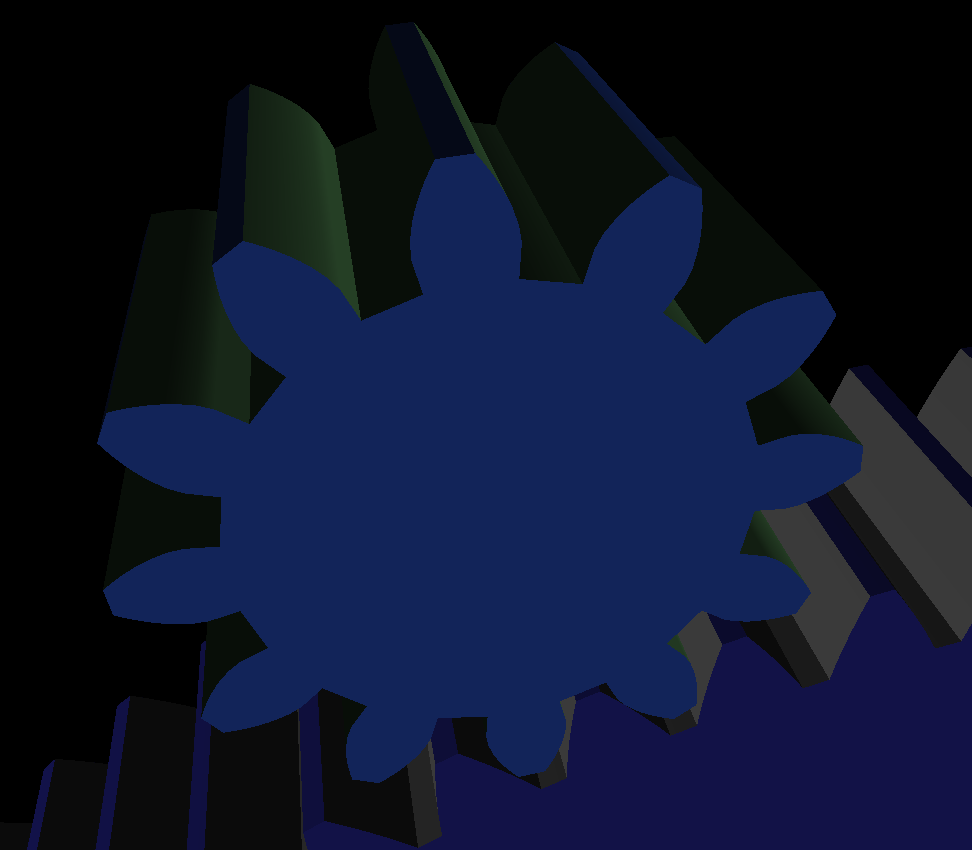
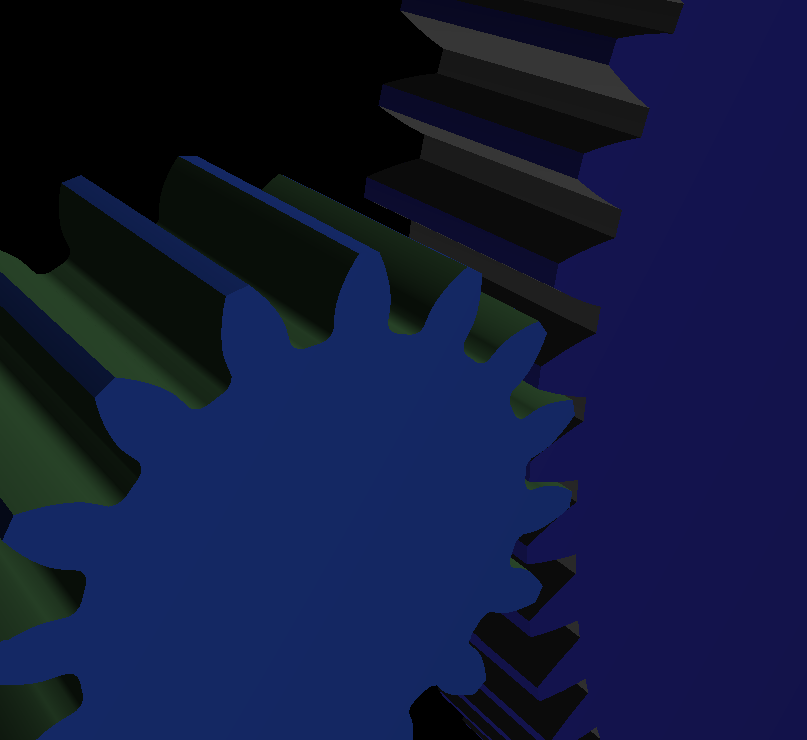
Add files via upload

diff --git a/oglwidget.cpp b/oglwidget.cpp
@@ -39,8 +39,8 @@ void OGLWidget::initializeGL()
     bool newVer = false;
 
     initializeOpenGLFunctions();
-    //OGL_ver = (float) atof((const char*) glGetString(GL_VERSION));
-    OGL_ver = std::stof(std::string((const char*) glGetString(GL_VERSION)));
+    //OGL_ver = std::stof(std::string((const char*) glGetString(GL_VERSION)));
+    OGL_ver = std::stof(std::string((const char*) glGetString(GL_SHADING_LANGUAGE_VERSION)));
     std::cout << "OGL_ver = " << OGL_ver << std::endl;
     if(OGL_ver >= 3.3f) newVer = true;
     // Vertex Shader
@@ -90,7 +90,7 @@ void OGLWidget::initializeGL()
     buildGears();
     // enable depth testing
     glEnable(GL_DEPTH_TEST);
-    uni = glGetUniformLocation(shaderProgram, "matrix");
+    uniMat = glGetUniformLocation(shaderProgram, "matrix");
     uniRot = glGetUniformLocation(shaderProgram, "rot");
     uniPerspective = glGetUniformLocation(shaderProgram, "perspective");
     uniLightPos = glGetUniformLocation(shaderProgram, "lightPos");
@@ -104,8 +104,8 @@ void OGLWidget::initializeGL()
 void  OGLWidget::buildGears(bool redo)
 {
     // initialise gear objects, which provide vertices and indices
-    auto myGa = std::make_unique<gear>(Na, pa, 4.001f); // gear slightly thicker so it shows above any overlap
-    auto myGb = std::make_unique<gear>(Nb, pa, 4.0f);
+    auto myGa = std::make_unique<gear>(Na, pa, 5.0f); // gear slightly thicker so it shows above any overlap
+    auto myGb = std::make_unique<gear>(Nb, pa, 5.0001f);
 
     Nind_a = myGa -> GetNInds();
     Nind1_a = myGa -> GetN1Inds();
@@ -198,6 +198,7 @@ void OGLWidget::mouseMoveEvent(QMouseEvent *event)
             if(zt < -5.0f && zt > -180.f) delZ = zt;
         }
     }
+    // Global orientation is stored in the Quaternion OGLWidget::QuatOrient
     else if(event->buttons() & Qt::LeftButton){ // roll, i.e. rotate around vector in x, y plane
         QVector3D rv((float) (y0-y1), (float) (x1-x0), 0.0f); // orthogonal vector in plane
         float length = 0.0025 * rv.length(); // magnitude for rotation
@@ -209,13 +210,19 @@ void OGLWidget::mouseMoveEvent(QMouseEvent *event)
         // xCentre, yCentre
         QVector3D rv0((float)(x0 - xCentre), (float) (y0 + yCentre), 0.0f);
         QVector3D rv1((float)(x1 - xCentre), (float) (y1 + yCentre), 0.0f);
-        rv0.normalize();
-        rv1.normalize();
-        QVector3D rcp = QVector3D::crossProduct(rv0, rv1);
-        float theta = 0.5 * asin(rcp.length()); // half angle for quaternion
-        QQuaternion rot(cos(theta), sin(theta) * rcp.normalized()); // rotation quaternion
-        rot *= QuatOrient;
-        QuatOrient = rot;
+        float rad = sqrt(rv0.length() * rv1.length());
+        if(rad > 10.0f){
+            rv0.normalize();
+            rv1.normalize();
+            QVector3D rcp = QVector3D::crossProduct(rv0, rv1);
+            float theta;
+            // limit the speed near the centre of rotation
+            if(rad<120.0f) theta = rad * asin(rcp.length()) / 240.0f; // half angle for quaternion
+            else theta = 0.5 * asin(rcp.length()); // half angle for quaternion
+            QQuaternion rot(cos(theta), sin(theta) * rcp.normalized()); // rotation quaternion
+            rot *= QuatOrient;
+            QuatOrient = rot;
+        }
     }
     lastPos = event->pos();
     if(paused) update();
@@ -265,7 +272,7 @@ void OGLWidget::paintGL()
     matRotB.rotate(theta_b, 0.0f, 0.0f, 1.0f);
 
     // draw first gear
-    glUniformMatrix4fv(uni, 1, GL_FALSE, matrixA.data()); // transpose is set to true/false
+    glUniformMatrix4fv(uniMat, 1, GL_FALSE, matrixA.data()); // transpose is set to true/false
     glUniformMatrix4fv(uniRot, 1, GL_FALSE, matRotA.data());
     glUniform3f(uniColor, 0.1f, 0.2f, 0.5f); // set color
     glDrawElements(GL_TRIANGLES, Nind1_a, GL_UNSIGNED_INT, (void*)(0 * sizeof(GLuint)));
@@ -273,7 +280,7 @@ void OGLWidget::paintGL()
     glDrawElements(GL_TRIANGLES, Nind_a - Nind1_a, GL_UNSIGNED_INT, (void*)(Nind1_a * sizeof(GLuint)));
 
     // draw second gear
-    glUniformMatrix4fv(uni, 1, GL_FALSE, matrixB.data()); // transpose is set to true/false
+    glUniformMatrix4fv(uniMat, 1, GL_FALSE, matrixB.data()); // transpose is set to true/false
     glUniformMatrix4fv(uniRot, 1, GL_FALSE, matRotB.data());
     glUniform3f(uniColor, 0.1f, 0.1f, 0.4f); // set color
     glDrawElements(GL_TRIANGLES, Nind1_b, GL_UNSIGNED_INT, (void*)(Nind_a * sizeof(GLuint)));

diff --git a/mainwindow.cpp b/mainwindow.cpp
@@ -50,7 +50,13 @@ void MainWindow::on_resetButton_clicked()
 
 void MainWindow::on_pausePlayButton_clicked()
 {
-    if(pause){ // activate simulation
+    if(pause && rebuildGears){
+        ui->pausePlayButton->setText("Play");
+        ui->myOGLWidget->rebuild();
+        ui->myOGLWidget->update();
+        rebuildGears = false;
+    }
+    else if(pause){ // activate simulation
         ui->pausePlayButton->setText("Pause");
         ui->myOGLWidget->setPaused(false);
         ui->radioButton_14->setEnabled(false);
@@ -58,10 +64,7 @@ void MainWindow::on_pausePlayButton_clicked()
         ui->radioButton_25->setEnabled(false);
         ui->spinBox_Na->setEnabled(false);
         ui->spinBox_Nb->setEnabled(false);
-        if(rebuildGears){
-            ui->myOGLWidget->rebuild();
-        }
-        rebuildGears = false;
+        pause = !pause;
     }
     else{ // pause simulation
         ui->pausePlayButton->setText("Play");
@@ -71,8 +74,8 @@ void MainWindow::on_pausePlayButton_clicked()
         ui->radioButton_25->setEnabled(true);
         ui->spinBox_Na->setEnabled(true);
         ui->spinBox_Nb->setEnabled(true);
+        pause = !pause;
     }
-    pause = !pause;
 }
 
 void MainWindow::on_radioButton_14_clicked()
@@ -80,6 +83,7 @@ void MainWindow::on_radioButton_14_clicked()
     pa = 14.5f * M_PI / 180.0f;
     ui->myOGLWidget->setPa(pa);
     rebuildGears = true;
+    ui->pausePlayButton->setText("Rebuild");
 }
 
 void MainWindow::on_radioButton_20_clicked()
@@ -87,6 +91,7 @@ void MainWindow::on_radioButton_20_clicked()
     pa = 20.0f * M_PI / 180.0f;
     ui->myOGLWidget->setPa(pa);
     rebuildGears = true;
+    ui->pausePlayButton->setText("Rebuild");
 }
 
 void MainWindow::on_radioButton_25_clicked()
@@ -94,6 +99,7 @@ void MainWindow::on_radioButton_25_clicked()
     pa = 25.0f * M_PI / 180.0f;
     ui->myOGLWidget->setPa(pa);
     rebuildGears = true;
+    ui->pausePlayButton->setText("Rebuild");
 }
 
 void MainWindow::on_spinBox_Na_editingFinished()
@@ -104,6 +110,7 @@ void MainWindow::on_spinBox_Na_editingFinished()
         ui->myOGLWidget->setNa(Na);
         rebuildGears = true;
         ui->myOGLWidget->reZeroThetas();
+        ui->pausePlayButton->setText("Rebuild");
     }
 }
 
@@ -115,7 +122,18 @@ void MainWindow::on_spinBox_Nb_editingFinished()
         ui->myOGLWidget->setNb(Nb);
         rebuildGears = true;
         ui->myOGLWidget->reZeroThetas();
+        ui->pausePlayButton->setText("Rebuild");
     }
+}
+
+void MainWindow::on_spinBox_Na_valueChanged(int)
+{
+    ui->pausePlayButton->setText("Rebuild");
+}
+
+void MainWindow::on_spinBox_Nb_valueChanged(int)
+{
+    ui->pausePlayButton->setText("Rebuild");
 }
 
 void MainWindow::drawOpenGL()

diff --git a/oglwidget.h b/oglwidget.h
@@ -24,7 +24,7 @@ public:
     void setNa(GLuint x) { Na = x; }
     void setNb(GLuint x) { Nb = x; }
     void rebuild() { rebuild_flg = true; }
-    void setSpeed(float x){ speed = x; }
+    void setSpeed(float x){ speed = x * 12.0f / (float) Na; }
     void setLightX(float x){ lightX = x; update(); }
     void setLightY(float y){ lightY = y; update(); }
     void setLightZ(float z){ lightZ = z; update(); }
@@ -40,10 +40,10 @@ protected:
     int rotate;
     GLuint shaderProgram;
     GLuint vao, vbo, ebo;
-    GLint uni, uniRot, uniColor, uniPerspective, uniLightPos;
+    GLint uniMat, uniRot, uniColor, uniPerspective, uniLightPos;
     QPoint lastPos;
     bool paused = false;
-    QQuaternion QuatOrient; // initialise to unit quaternion
+    QQuaternion QuatOrient; // initialised to unit quaternion, stores the global orientation
     int xCentre, yCentre;
     const float delZ0 = -125.0f;
     float delX =0.0f, delY = 0.0f, delZ = delZ0;

diff --git a/mainwindow.h b/mainwindow.h
@@ -34,14 +34,12 @@ private slots:
     void on_spinBox_Na_editingFinished();
     void on_spinBox_Nb_editingFinished();
     void on_horizontalScrollBar_valueChanged(int value);
-
     void on_lightPosX_editingFinished();
-
     void on_lightPosY_editingFinished();
-
     void on_lightPosZ_editingFinished();
-
     void on_resetButton_clicked();
+    void on_spinBox_Na_valueChanged(int);
+    void on_spinBox_Nb_valueChanged(int);
 
 private:
     Ui::MainWindow *ui;
